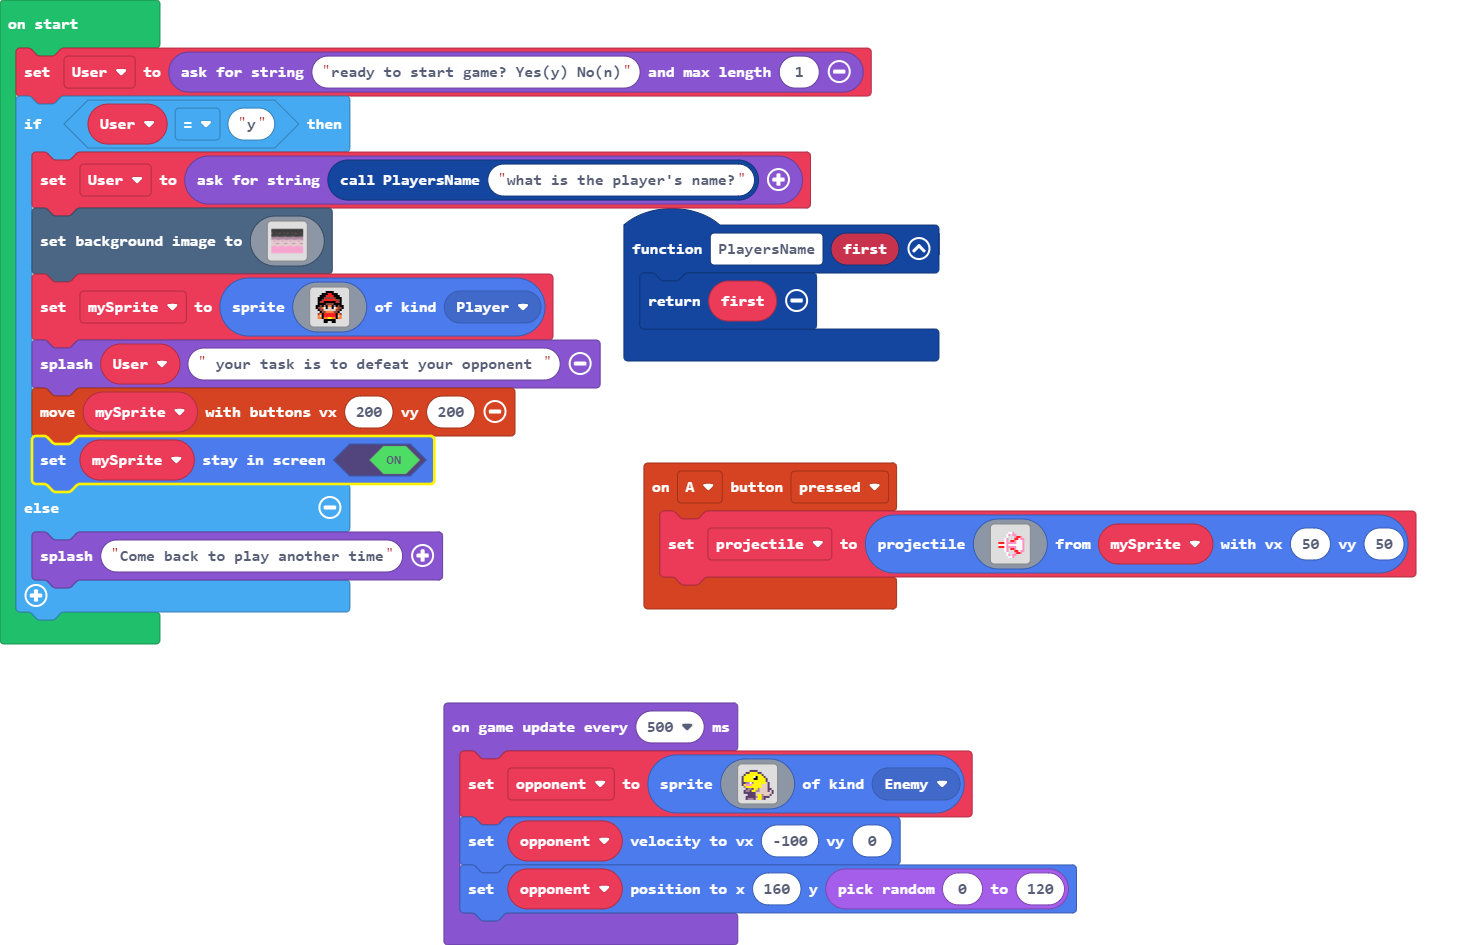
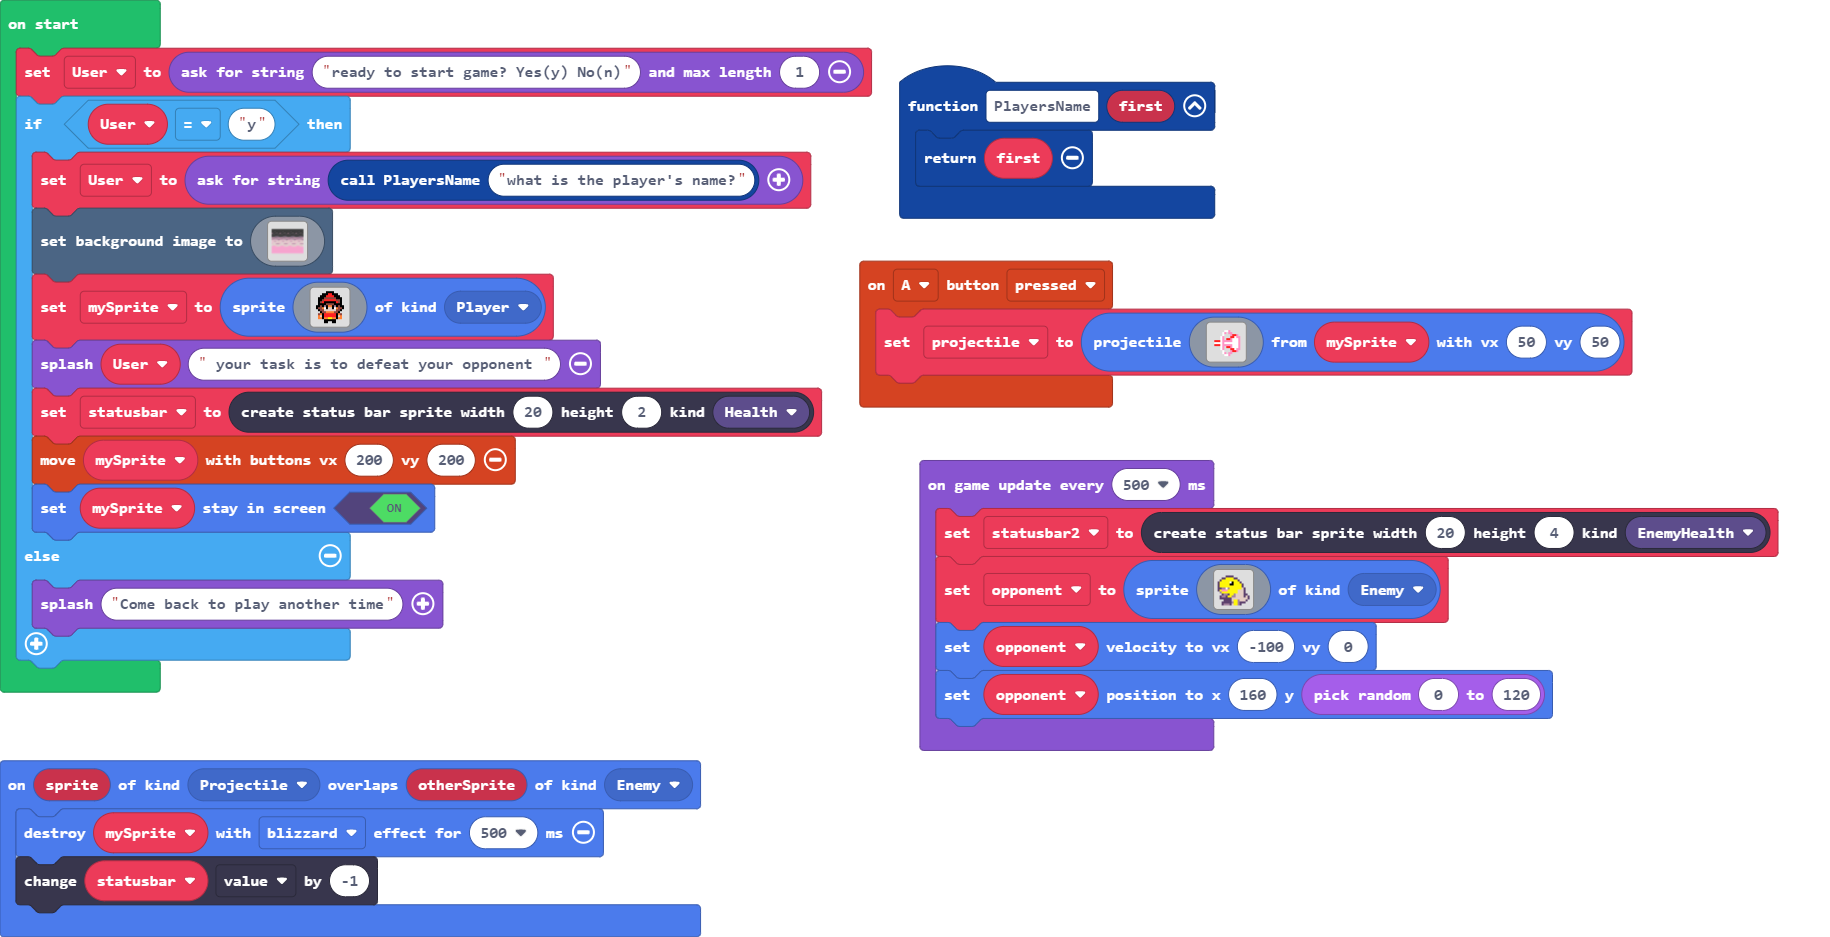
Update pxt.json, main.blocks, main.ts

diff --git a/main.ts b/main.ts
@@ -21,8 +21,14 @@ controller.A.onEvent(ControllerButtonEvent.Pressed, function () {
         . . . . . . . . . . . . . . . . 
         `, mySprite, 50, 50)
 })
+sprites.onOverlap(SpriteKind.Projectile, SpriteKind.Enemy, function (sprite, otherSprite) {
+    mySprite.destroy(effects.blizzard, 500)
+    statusbar.value += -1
+})
 let opponent: Sprite = null
+let statusbar2: StatusBarSprite = null
 let projectile: Sprite = null
+let statusbar: StatusBarSprite = null
 let mySprite: Sprite = null
 let User = game.askForString("ready to start game? Yes(y) No(n)", 1)
 if (User == "y") {
@@ -168,12 +174,14 @@ if (User == "y") {
         . . . . . f f . . f f . . . . . 
         `, SpriteKind.Player)
     game.splash(User, " your task is to defeat your opponent ")
+    statusbar = statusbars.create(20, 2, StatusBarKind.Health)
     controller.moveSprite(mySprite, 200, 200)
     mySprite.setStayInScreen(true)
 } else {
     game.splash("Come back to play another time")
 }
 game.onUpdateInterval(500, function () {
+    statusbar2 = statusbars.create(20, 4, StatusBarKind.EnemyHealth)
     opponent = sprites.create(img`
         . . . . . . . . . . . . . . . . 
         . . . . c c c c . . . . . . . . 
